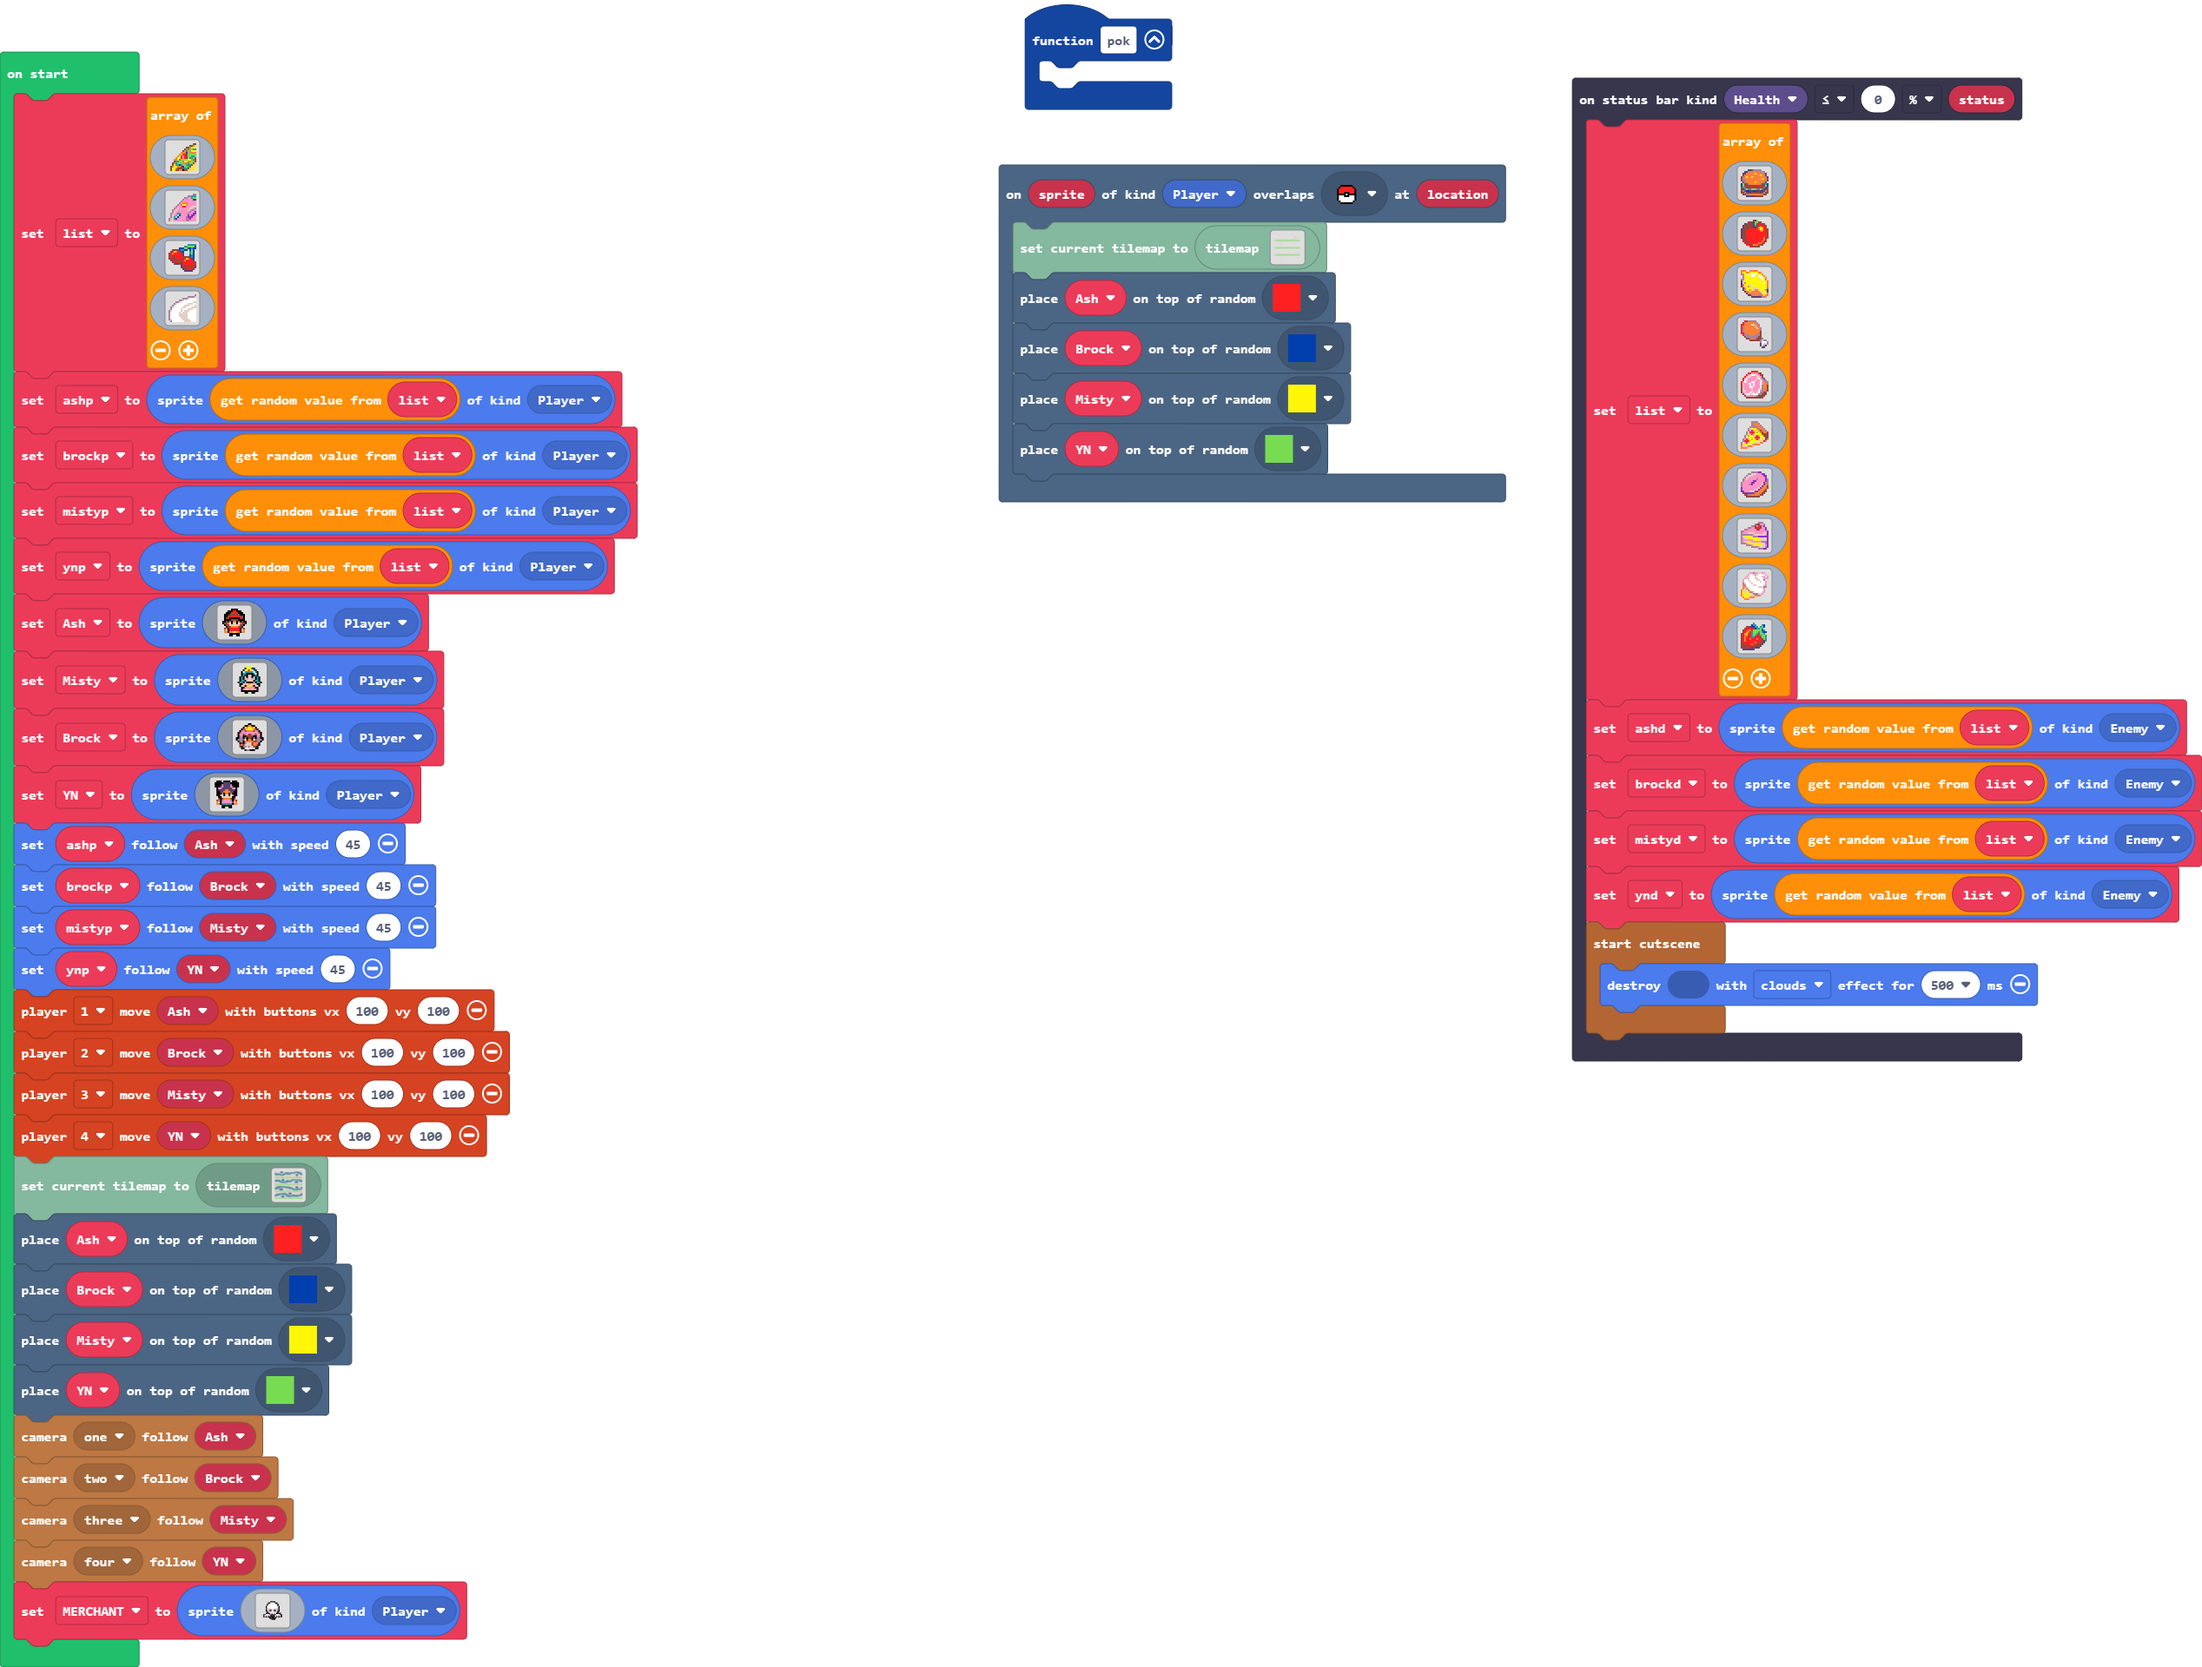
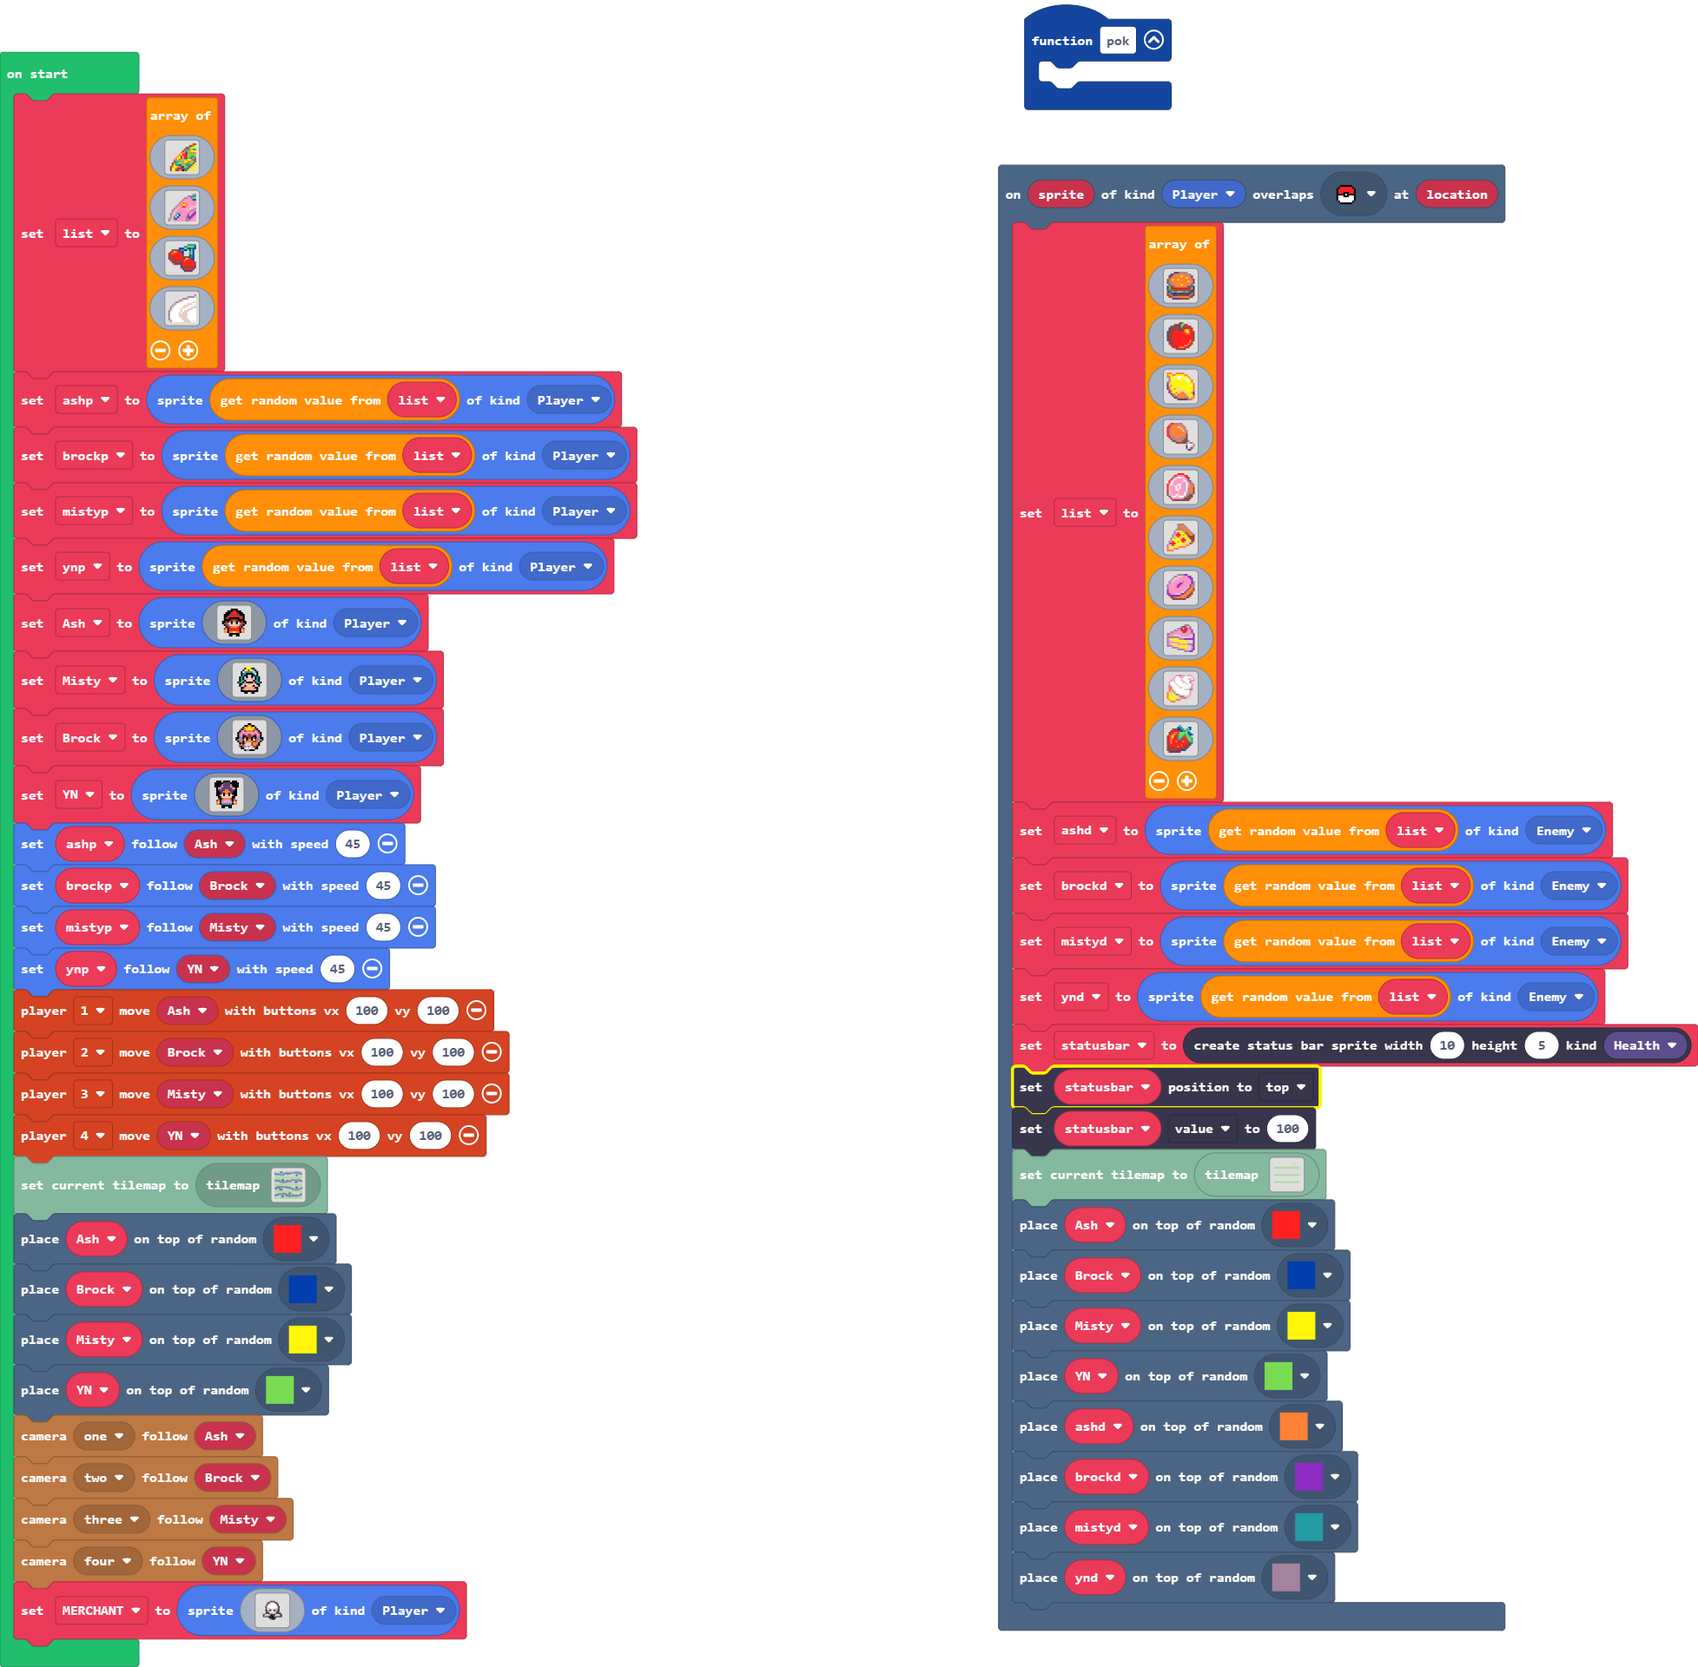
Update main.blocks, main.ts

diff --git a/main.ts b/main.ts
@@ -1,7 +1,7 @@
 function pok () {
 	
 }
-statusbars.onStatusReached(StatusBarKind.Health, statusbars.StatusComparison.LTE, statusbars.ComparisonType.Percentage, 0, function (status) {
+scene.onOverlapTile(SpriteKind.Player, assets.tile`myTile5`, function (sprite, location) {
     list = [
     img`
         . . . . c c c b b b b b . . . . 
@@ -188,17 +188,20 @@ statusbars.onStatusReached(StatusBarKind.Health, statusbars.StatusComparison.LTE
     brockd = sprites.create(list._pickRandom(), SpriteKind.Enemy)
     mistyd = sprites.create(list._pickRandom(), SpriteKind.Enemy)
     ynd = sprites.create(list._pickRandom(), SpriteKind.Enemy)
-    story.startCutscene(function () {
-        sprites.destroy(null, effects.clouds, 500)
-    })
-})
-scene.onOverlapTile(SpriteKind.Player, assets.tile`myTile5`, function (sprite, location) {
+    statusbar = statusbars.create(10, 5, StatusBarKind.Health)
+    statusbar.positionDirection(CollisionDirection.Top)
+    statusbar.value = 100
     tiles.loadMap(tiles.createMap(tilemap`level16`))
     tiles.placeOnRandomTile(Ash, assets.tile`myTile1`)
     tiles.placeOnRandomTile(Brock, assets.tile`myTile2`)
     tiles.placeOnRandomTile(Misty, assets.tile`myTile3`)
     tiles.placeOnRandomTile(YN, assets.tile`myTile4`)
+    tiles.placeOnRandomTile(ashd, assets.tile`myTile6`)
+    tiles.placeOnRandomTile(brockd, assets.tile`myTile7`)
+    tiles.placeOnRandomTile(mistyd, assets.tile`myTile8`)
+    tiles.placeOnRandomTile(ynd, assets.tile`myTile9`)
 })
+let statusbar: StatusBarSprite = null
 let ynd: Sprite = null
 let mistyd: Sprite = null
 let brockd: Sprite = null
